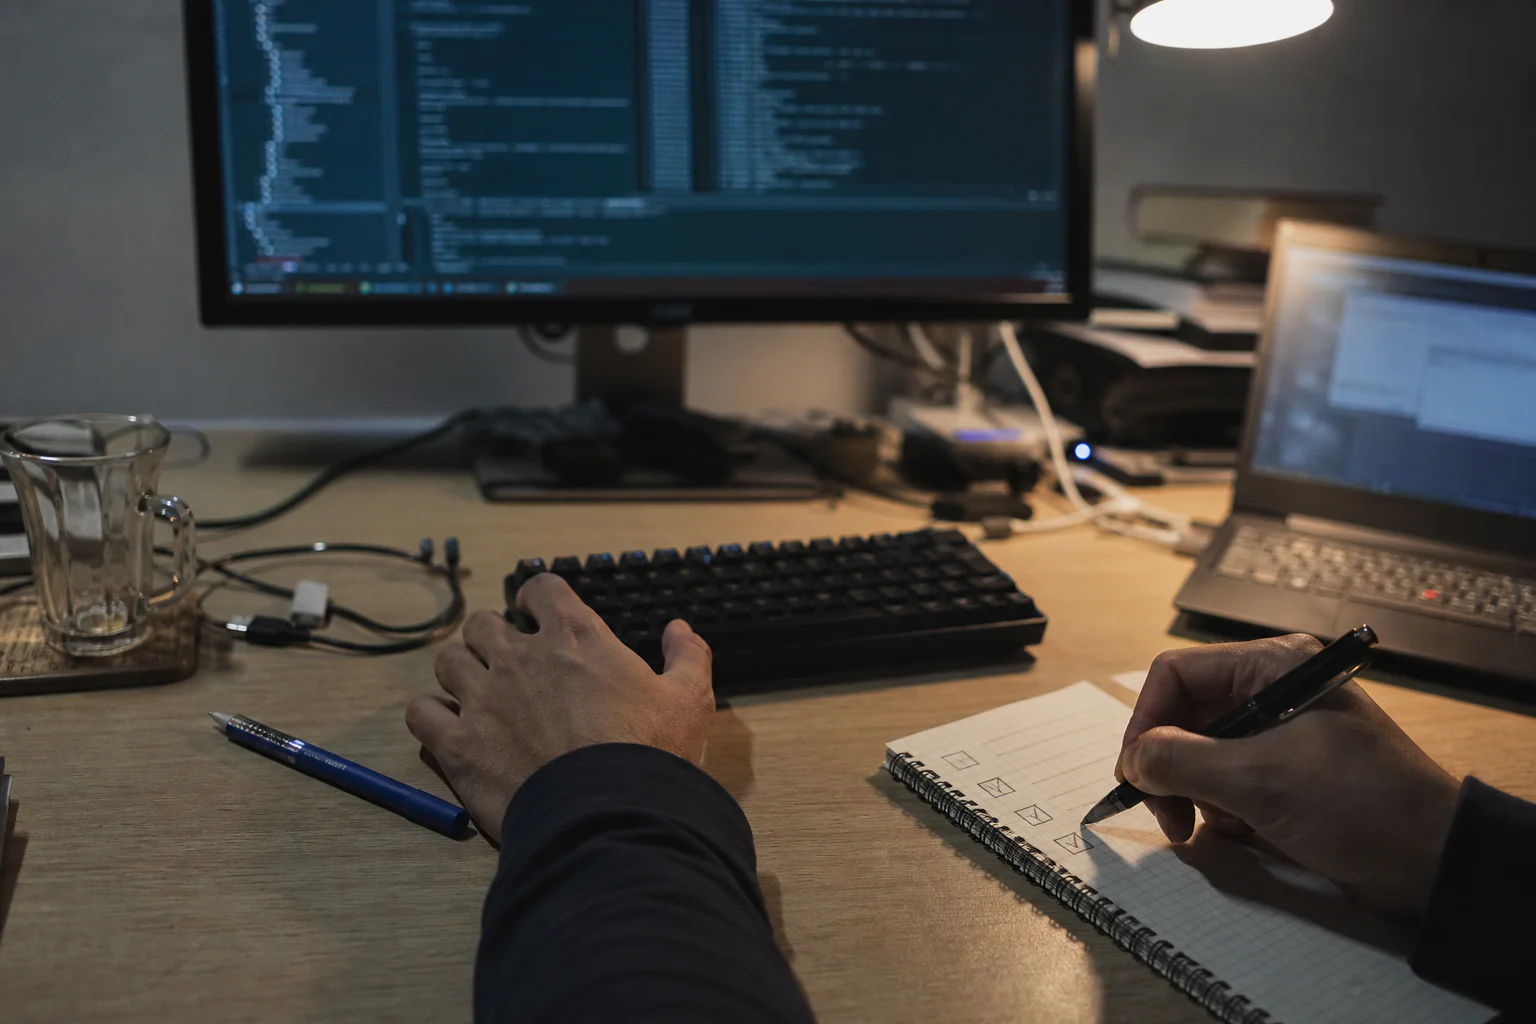
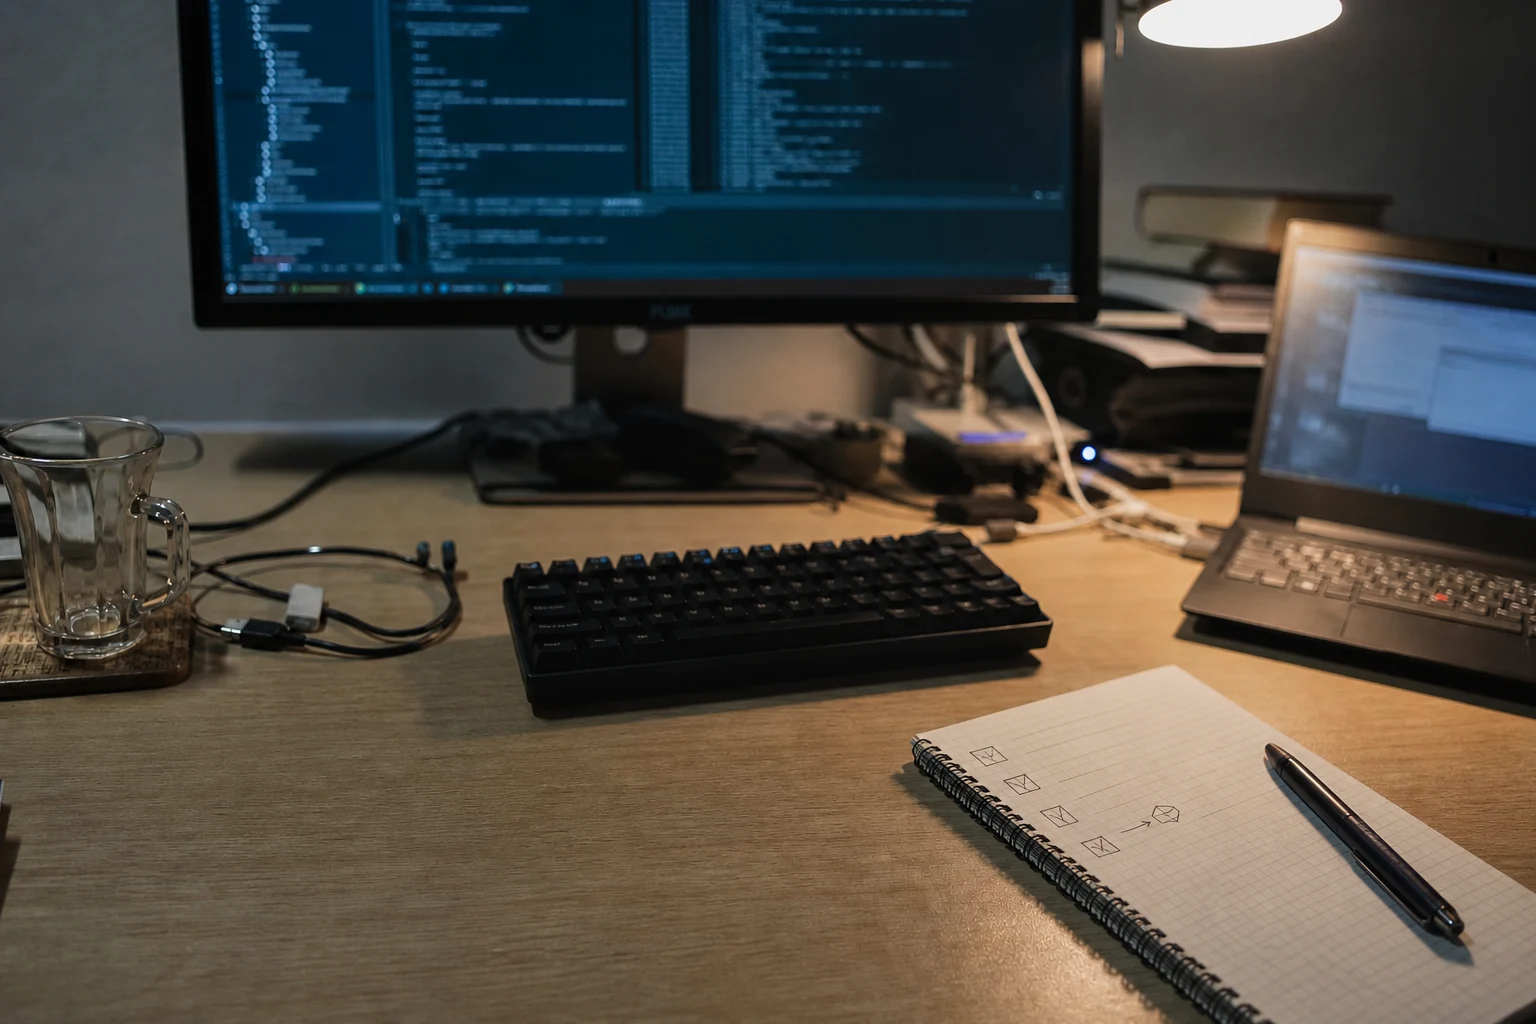
fix: replace debugging guide cover

diff --git a/src/content/guides/matt-pocock-skills-debug-maintain.md b/src/content/guides/matt-pocock-skills-debug-maintain.md
@@ -9,8 +9,8 @@ featured: true
 publishedAt: 2026-07-23
 updatedAt: 2026-07-23
 guideType: "workflow"
-coverImage: "https://images.keyo.tw/skill-library/guides/matt-pocock-skills-debug-maintain.webp"
-coverImageAlt: "夜間開發桌上有人一邊操作鍵盤，一邊在重現檢查表上做記號"
+coverImage: "https://skills.keyo.tw/images/guides/matt-pocock-skills-debug-maintain.webp"
+coverImageAlt: "夜間無人的開發工作桌，螢幕顯示程式碼，鍵盤旁放著除錯檢查筆記"
 learningGoals: ["建立會對特定 bug 變紅的回饋迴圈", "把外部 issue 移到可執行的 triage 狀態", "用共同架構詞彙找出真正值得做的重整"]
 prerequisites: ["已設定 issue tracker 與 triage labels", "能執行專案測試、CLI 或本地服務"]
 relatedSkills: ["awesome-agent-skills-mattpocock-skills"]